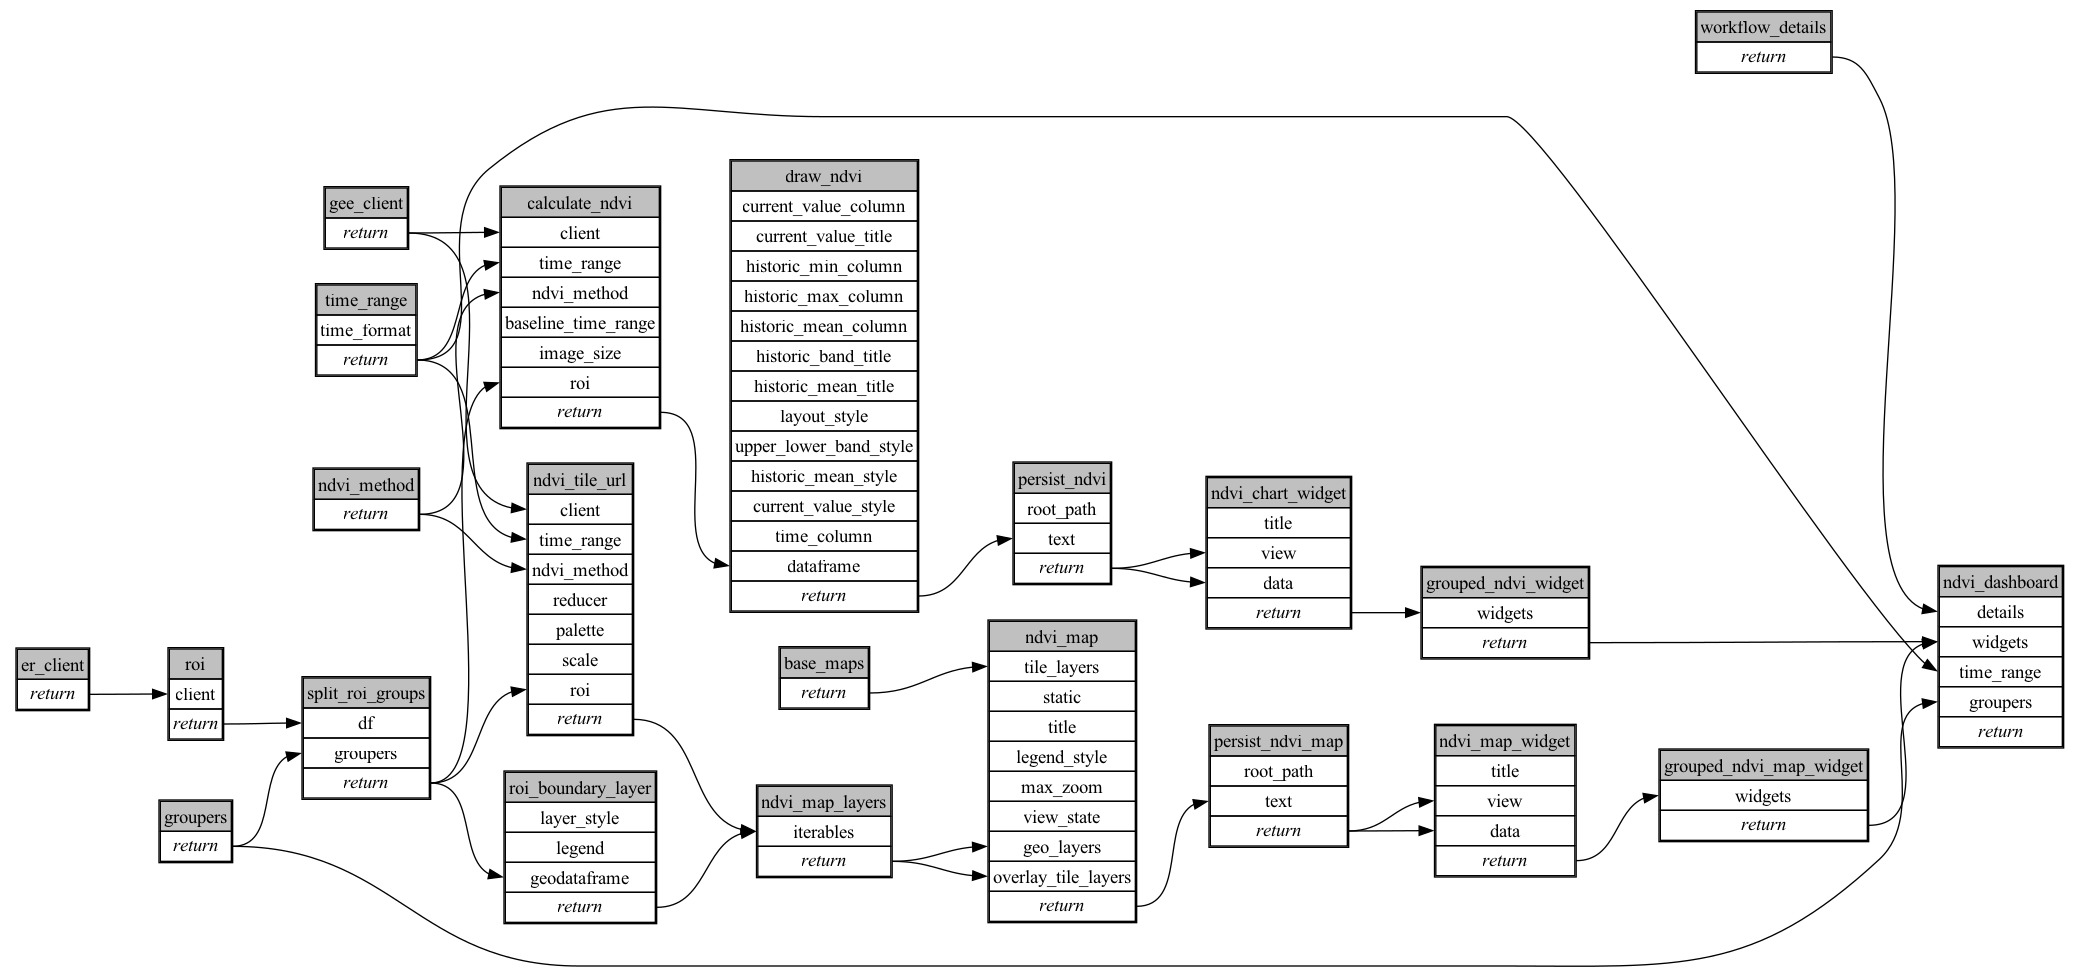
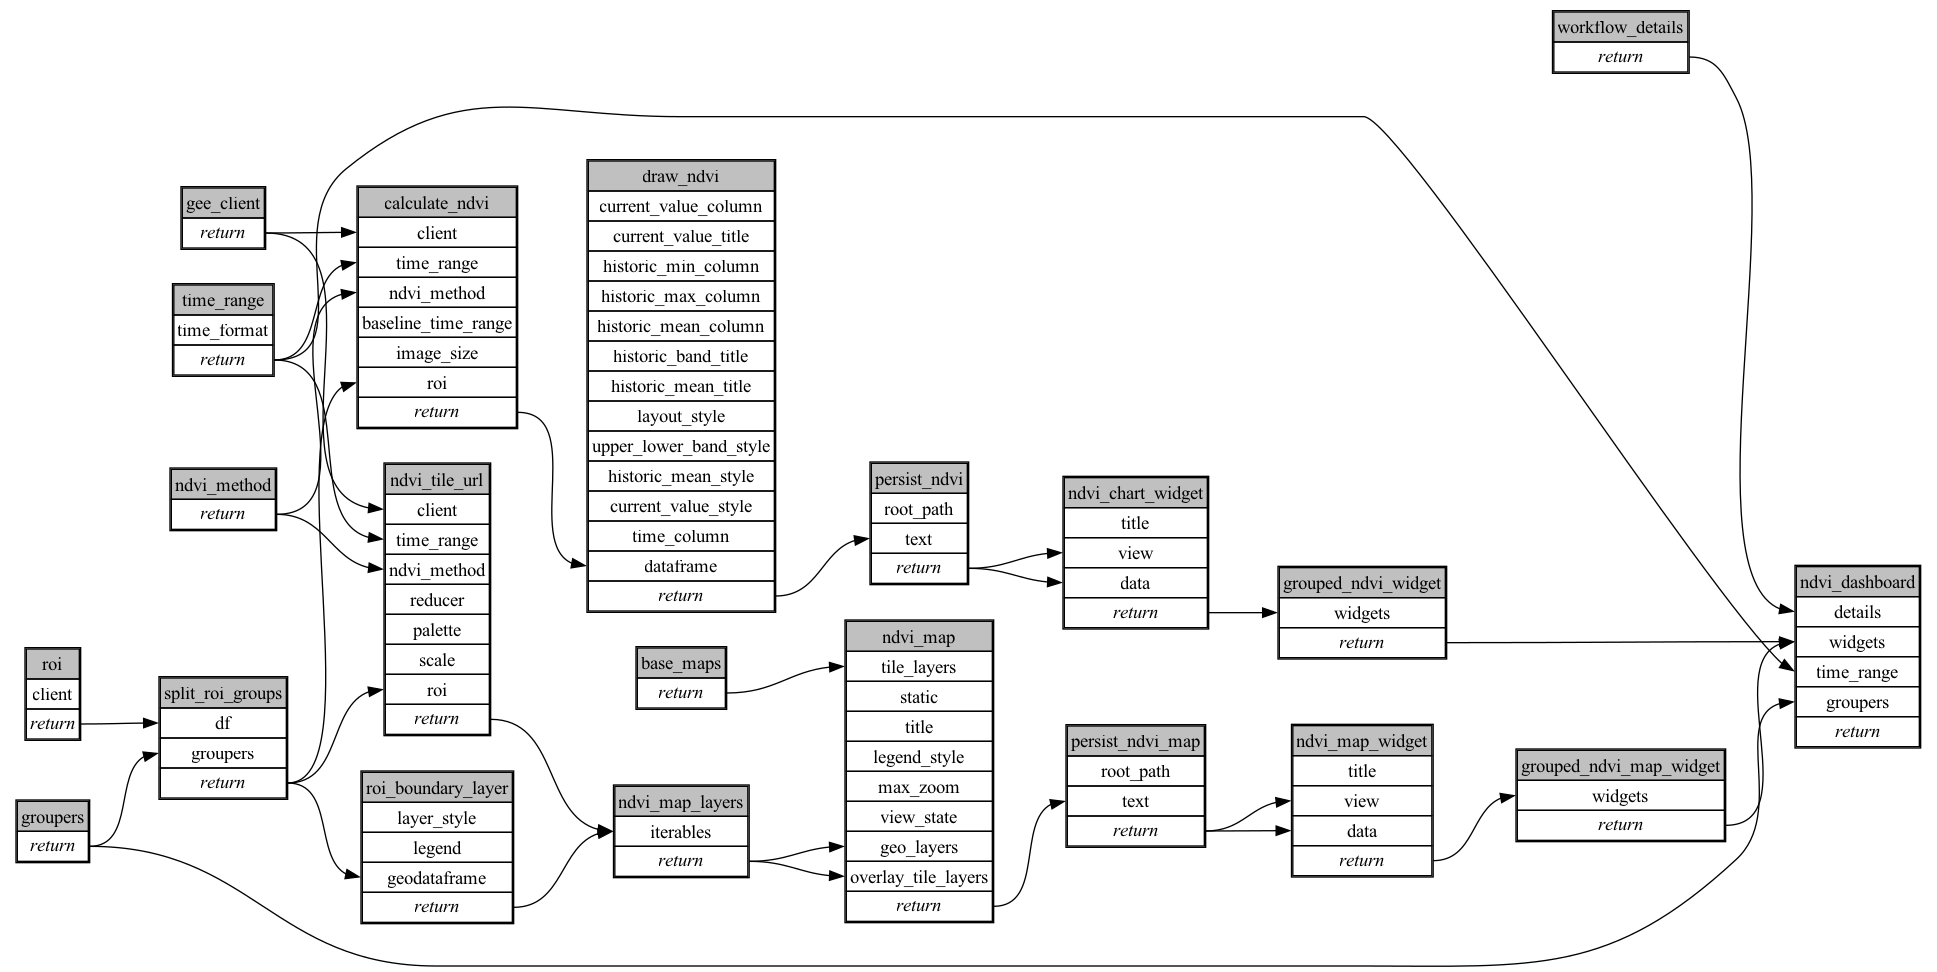
remove er client

diff --git a/ecoscope-workflows-ndvi-workflow/ecoscope_workflows_ndvi_workflow/dags/run_async.py b/ecoscope-workflows-ndvi-workflow/ecoscope_workflows_ndvi_workflow/dags/run_async.py
@@ -12,7 +12,6 @@ from ecoscope_workflows_core.tasks.groupby import groupbykey as groupbykey
 from ecoscope_workflows_core.tasks.groupby import set_groupers as set_groupers
 from ecoscope_workflows_core.tasks.groupby import split_groups as split_groups
 from ecoscope_workflows_core.tasks.io import persist_text as persist_text
-from ecoscope_workflows_core.tasks.io import set_er_connection as set_er_connection
 from ecoscope_workflows_core.tasks.io import set_gee_connection as set_gee_connection
 from ecoscope_workflows_core.tasks.results import (
     create_map_widget_single_view as create_map_widget_single_view,
@@ -54,9 +53,8 @@ def main(params: Params):
         "workflow_details": [],
         "gee_client": [],
         "time_range": [],
-        "er_client": [],
         "groupers": [],
-        "roi": ["er_client"],
+        "roi": [],
         "split_roi_groups": ["roi", "groupers"],
         "ndvi_method": [],
         "calculate_ndvi": [
@@ -122,15 +120,6 @@ def main(params: Params):
             | (params_dict.get("time_range") or {}),
             method="call",
         ),
-        "er_client": Node(
-            async_task=set_er_connection.validate()
-            .set_task_instance_id("er_client")
-            .handle_errors()
-            .with_tracing()
-            .set_executor("lithops"),
-            partial=(params_dict.get("er_client") or {}),
-            method="call",
-        ),
         "groupers": Node(
             async_task=set_groupers.validate()
             .set_task_instance_id("groupers")
@@ -147,7 +136,7 @@ def main(params: Params):
             .with_tracing()
             .set_executor("lithops"),
             partial={
-                "client": DependsOn("er_client"),
+                "client": None,
             }
             | (params_dict.get("roi") or {}),
             method="call",

diff --git a/ecoscope-workflows-ndvi-workflow/ecoscope_workflows_ndvi_workflow/dags/run_async_mock_io.py b/ecoscope-workflows-ndvi-workflow/ecoscope_workflows_ndvi_workflow/dags/run_async_mock_io.py
@@ -17,7 +17,6 @@ from ecoscope_workflows_core.tasks.config import (
 )
 from ecoscope_workflows_core.tasks.filter import set_time_range as set_time_range
 from ecoscope_workflows_core.tasks.groupby import set_groupers as set_groupers
-from ecoscope_workflows_core.tasks.io import set_er_connection as set_er_connection
 from ecoscope_workflows_core.tasks.io import set_gee_connection as set_gee_connection
 from ecoscope_workflows_core.testing import create_task_magicmock  # 🧪
 
@@ -72,9 +71,8 @@ def main(params: Params):
         "workflow_details": [],
         "gee_client": [],
         "time_range": [],
-        "er_client": [],
         "groupers": [],
-        "roi": ["er_client"],
+        "roi": [],
         "split_roi_groups": ["roi", "groupers"],
         "ndvi_method": [],
         "calculate_ndvi": [
@@ -140,15 +138,6 @@ def main(params: Params):
             | (params_dict.get("time_range") or {}),
             method="call",
         ),
-        "er_client": Node(
-            async_task=set_er_connection.validate()
-            .set_task_instance_id("er_client")
-            .handle_errors()
-            .with_tracing()
-            .set_executor("lithops"),
-            partial=(params_dict.get("er_client") or {}),
-            method="call",
-        ),
         "groupers": Node(
             async_task=set_groupers.validate()
             .set_task_instance_id("groupers")
@@ -165,7 +154,7 @@ def main(params: Params):
             .with_tracing()
             .set_executor("lithops"),
             partial={
-                "client": DependsOn("er_client"),
+                "client": None,
             }
             | (params_dict.get("roi") or {}),
             method="call",

diff --git a/ecoscope-workflows-ndvi-workflow/ecoscope_workflows_ndvi_workflow/dags/run_sequential.py b/ecoscope-workflows-ndvi-workflow/ecoscope_workflows_ndvi_workflow/dags/run_sequential.py
@@ -11,7 +11,6 @@ from ecoscope_workflows_core.tasks.groupby import groupbykey as groupbykey
 from ecoscope_workflows_core.tasks.groupby import set_groupers as set_groupers
 from ecoscope_workflows_core.tasks.groupby import split_groups as split_groups
 from ecoscope_workflows_core.tasks.io import persist_text as persist_text
-from ecoscope_workflows_core.tasks.io import set_er_connection as set_er_connection
 from ecoscope_workflows_core.tasks.io import set_gee_connection as set_gee_connection
 from ecoscope_workflows_core.tasks.results import (
     create_map_widget_single_view as create_map_widget_single_view,
@@ -78,15 +77,6 @@ def main(params: Params):
         .call()
     )
 
-    er_client = (
-        set_er_connection.validate()
-        .set_task_instance_id("er_client")
-        .handle_errors()
-        .with_tracing()
-        .partial(**(params_dict.get("er_client") or {}))
-        .call()
-    )
-
     groupers = (
         set_groupers.validate()
         .set_task_instance_id("groupers")
@@ -101,7 +91,7 @@ def main(params: Params):
         .set_task_instance_id("roi")
         .handle_errors()
         .with_tracing()
-        .partial(client=er_client, **(params_dict.get("roi") or {}))
+        .partial(client=None, **(params_dict.get("roi") or {}))
         .call()
     )
 

diff --git a/ecoscope-workflows-ndvi-workflow/ecoscope_workflows_ndvi_workflow/dags/jupytext.py b/ecoscope-workflows-ndvi-workflow/ecoscope_workflows_ndvi_workflow/dags/jupytext.py
@@ -21,7 +21,6 @@ from ecoscope_workflows_core.tasks.groupby import groupbykey as groupbykey
 from ecoscope_workflows_core.tasks.groupby import set_groupers as set_groupers
 from ecoscope_workflows_core.tasks.groupby import split_groups as split_groups
 from ecoscope_workflows_core.tasks.io import persist_text as persist_text
-from ecoscope_workflows_core.tasks.io import set_er_connection as set_er_connection
 from ecoscope_workflows_core.tasks.io import set_gee_connection as set_gee_connection
 from ecoscope_workflows_core.tasks.results import (
     create_map_widget_single_view as create_map_widget_single_view,
@@ -127,29 +126,6 @@ time_range = (
 
 
 # %% [markdown]
-# ## EarthRanger Data Source
-
-# %%
-# parameters
-
-er_client_params = dict(
-    data_source=...,
-)
-
-# %%
-# call the task
-
-
-er_client = (
-    set_er_connection.set_task_instance_id("er_client")
-    .handle_errors()
-    .with_tracing()
-    .partial(**er_client_params)
-    .call()
-)
-
-
-# %% [markdown]
 # ## Set Groupers
 
 # %%
@@ -190,7 +166,7 @@ roi = (
     get_spatial_feature_group.set_task_instance_id("roi")
     .handle_errors()
     .with_tracing()
-    .partial(client=er_client, **roi_params)
+    .partial(client=None, **roi_params)
     .call()
 )
 

diff --git a/ecoscope-workflows-ndvi-workflow/ecoscope_workflows_ndvi_workflow/formdata.py b/ecoscope-workflows-ndvi-workflow/ecoscope_workflows_ndvi_workflow/formdata.py
@@ -225,10 +225,6 @@ class TimezoneInfo(BaseModel):
     utc: str = Field(..., title="Utc")
 
 
-class EarthRangerConnection(BaseModel):
-    name: str = Field(..., title="Data Source")
-
-
 class SpatialGrouper(BaseModel):
     spatial_index_name: str = Field(..., title="Spatial Regions")
 
@@ -314,15 +310,6 @@ class TimeRange(BaseModel):
     timezone: TimezoneInfo | None = Field(None, title="Timezone")
 
 
-class ErClient(BaseModel):
-    model_config = ConfigDict(
-        extra="forbid",
-    )
-    data_source: EarthRangerConnection = Field(
-        ..., description="Select one of your configured data sources.", title=""
-    )
-
-
 class Groupers(BaseModel):
     model_config = ConfigDict(
         extra="forbid",
@@ -361,7 +348,6 @@ class FormData(BaseModel):
     time_range: TimeRange | None = Field(
         None, description="Choose the period of time to analyze.", title="Time Range"
     )
-    er_client: ErClient | None = Field(None, title="EarthRanger Data Source")
     groupers: Groupers | None = Field(None, title="Set Groupers")
     roi: Roi | None = Field(None, title="Load ROI")
     ndvi_method: NdviMethod | None = Field(None, title="NDVI Method")

diff --git a/ecoscope-workflows-ndvi-workflow/ecoscope_workflows_ndvi_workflow/params.py b/ecoscope-workflows-ndvi-workflow/ecoscope_workflows_ndvi_workflow/params.py
@@ -221,10 +221,6 @@ class TimezoneInfo(BaseModel):
     utc: str = Field(..., title="Utc")
 
 
-class EarthRangerConnection(BaseModel):
-    name: str = Field(..., title="Data Source")
-
-
 class SpatialGrouper(BaseModel):
     spatial_index_name: str = Field(..., title="Spatial Regions")
 
@@ -306,15 +302,6 @@ class TimeRange(BaseModel):
     timezone: TimezoneInfo | None = Field(None, title="Timezone")
 
 
-class ErClient(BaseModel):
-    model_config = ConfigDict(
-        extra="forbid",
-    )
-    data_source: EarthRangerConnection = Field(
-        ..., description="Select one of your configured data sources.", title=""
-    )
-
-
 class Groupers(BaseModel):
     model_config = ConfigDict(
         extra="forbid",
@@ -352,7 +339,6 @@ class Params(BaseModel):
     time_range: TimeRange | None = Field(
         None, description="Choose the period of time to analyze.", title="Time Range"
     )
-    er_client: ErClient | None = Field(None, title="EarthRanger Data Source")
     groupers: Groupers | None = Field(None, title="Set Groupers")
     roi: Roi | None = Field(None, title="Load ROI")
     ndvi_method: NdviMethod | None = Field(None, title="NDVI Method")

diff --git a/ecoscope-workflows-ndvi-workflow/ecoscope_workflows_ndvi_workflow/dags/run_sequential_mock_io.py b/ecoscope-workflows-ndvi-workflow/ecoscope_workflows_ndvi_workflow/dags/run_sequential_mock_io.py
@@ -16,7 +16,6 @@ from ecoscope_workflows_core.tasks.config import (
 )
 from ecoscope_workflows_core.tasks.filter import set_time_range as set_time_range
 from ecoscope_workflows_core.tasks.groupby import set_groupers as set_groupers
-from ecoscope_workflows_core.tasks.io import set_er_connection as set_er_connection
 from ecoscope_workflows_core.tasks.io import set_gee_connection as set_gee_connection
 from ecoscope_workflows_core.testing import create_task_magicmock  # 🧪
 
@@ -96,15 +95,6 @@ def main(params: Params):
         .call()
     )
 
-    er_client = (
-        set_er_connection.validate()
-        .set_task_instance_id("er_client")
-        .handle_errors()
-        .with_tracing()
-        .partial(**(params_dict.get("er_client") or {}))
-        .call()
-    )
-
     groupers = (
         set_groupers.validate()
         .set_task_instance_id("groupers")
@@ -119,7 +109,7 @@ def main(params: Params):
         .set_task_instance_id("roi")
         .handle_errors()
         .with_tracing()
-        .partial(client=er_client, **(params_dict.get("roi") or {}))
+        .partial(client=None, **(params_dict.get("roi") or {}))
         .call()
     )
 

diff --git a/ecoscope-workflows-ndvi-workflow/README.md b/ecoscope-workflows-ndvi-workflow/README.md
@@ -5,8 +5,8 @@
 
 ```yaml
 # fingerprint:
-artifacts_sha256_basic: 23eb0acac89bedf31a83da3abbceca82c0f2953aef6f62aaa51fb927731f64ec
-artifacts_sha256_strict: f44cb38f0117e671566898b59f99b997abd2108b75c194e69bc9e21487df97e5
+artifacts_sha256_basic: e948c35ab77aafd021ff4f5edc06d8dfe5a6fb2e5230154648f3b5392cb26d2e
+artifacts_sha256_strict: 6816118b0e30645a5acc459ed91b82b31f442fcaa7017dc58ca7df8ae4dc18ac
 installed_requirements:
 - channel: https://repo.prefix.dev/ecoscope-workflows/
   name: ecoscope-workflows-core
@@ -17,8 +17,8 @@ installed_requirements:
 - channel: https://repo.prefix.dev/ecoscope-workflows-custom/
   name: ecoscope-workflows-ext-custom
   version: {version: ==0.0.29.dev4+g3c854f5d1.d20260223}
-params_sha256: eae0e9e7e39e8d07f833ccf3c114fea74b1b00cb86659a022ce46adfcf5ea473
-spec_sha256: 3ee796a6eb41329161323171fc73b417a8fbef725f79497bdfed1d577846eb7b
+params_sha256: ac5eb070380deead0e0b8a4d5d5879750ec4700109bcf38a240c7aa7540c2e91
+spec_sha256: a1fdf9536236451179ace7fea0cae70a1b3ef8b0b93570e6ebe2155999345388
 
 ```
 
